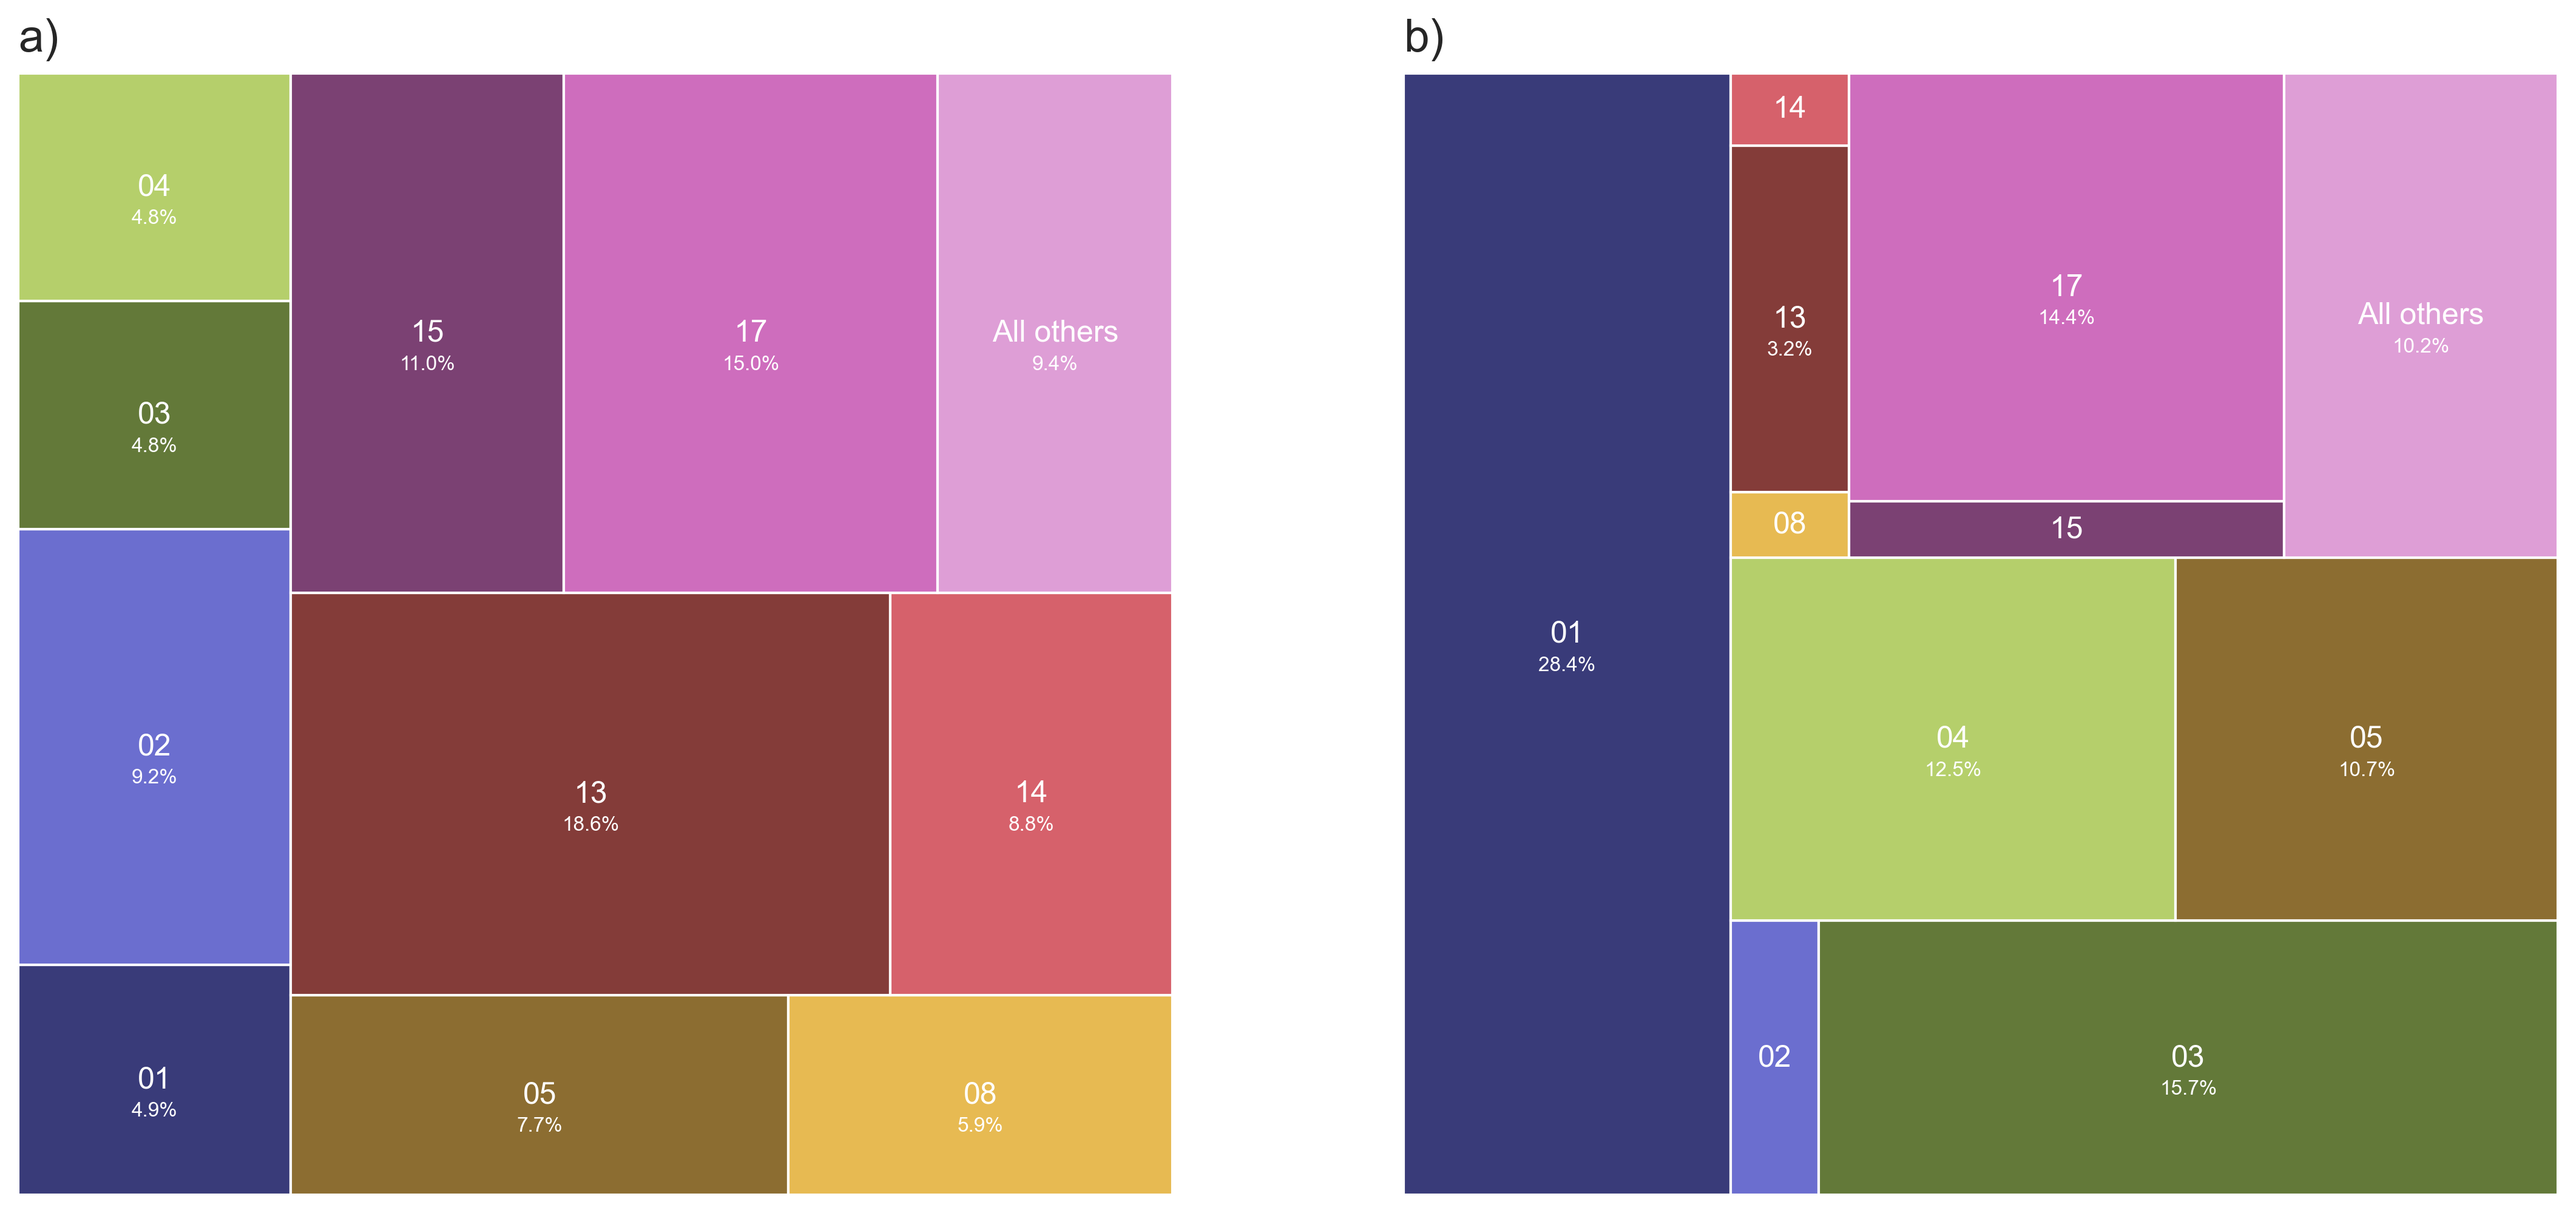
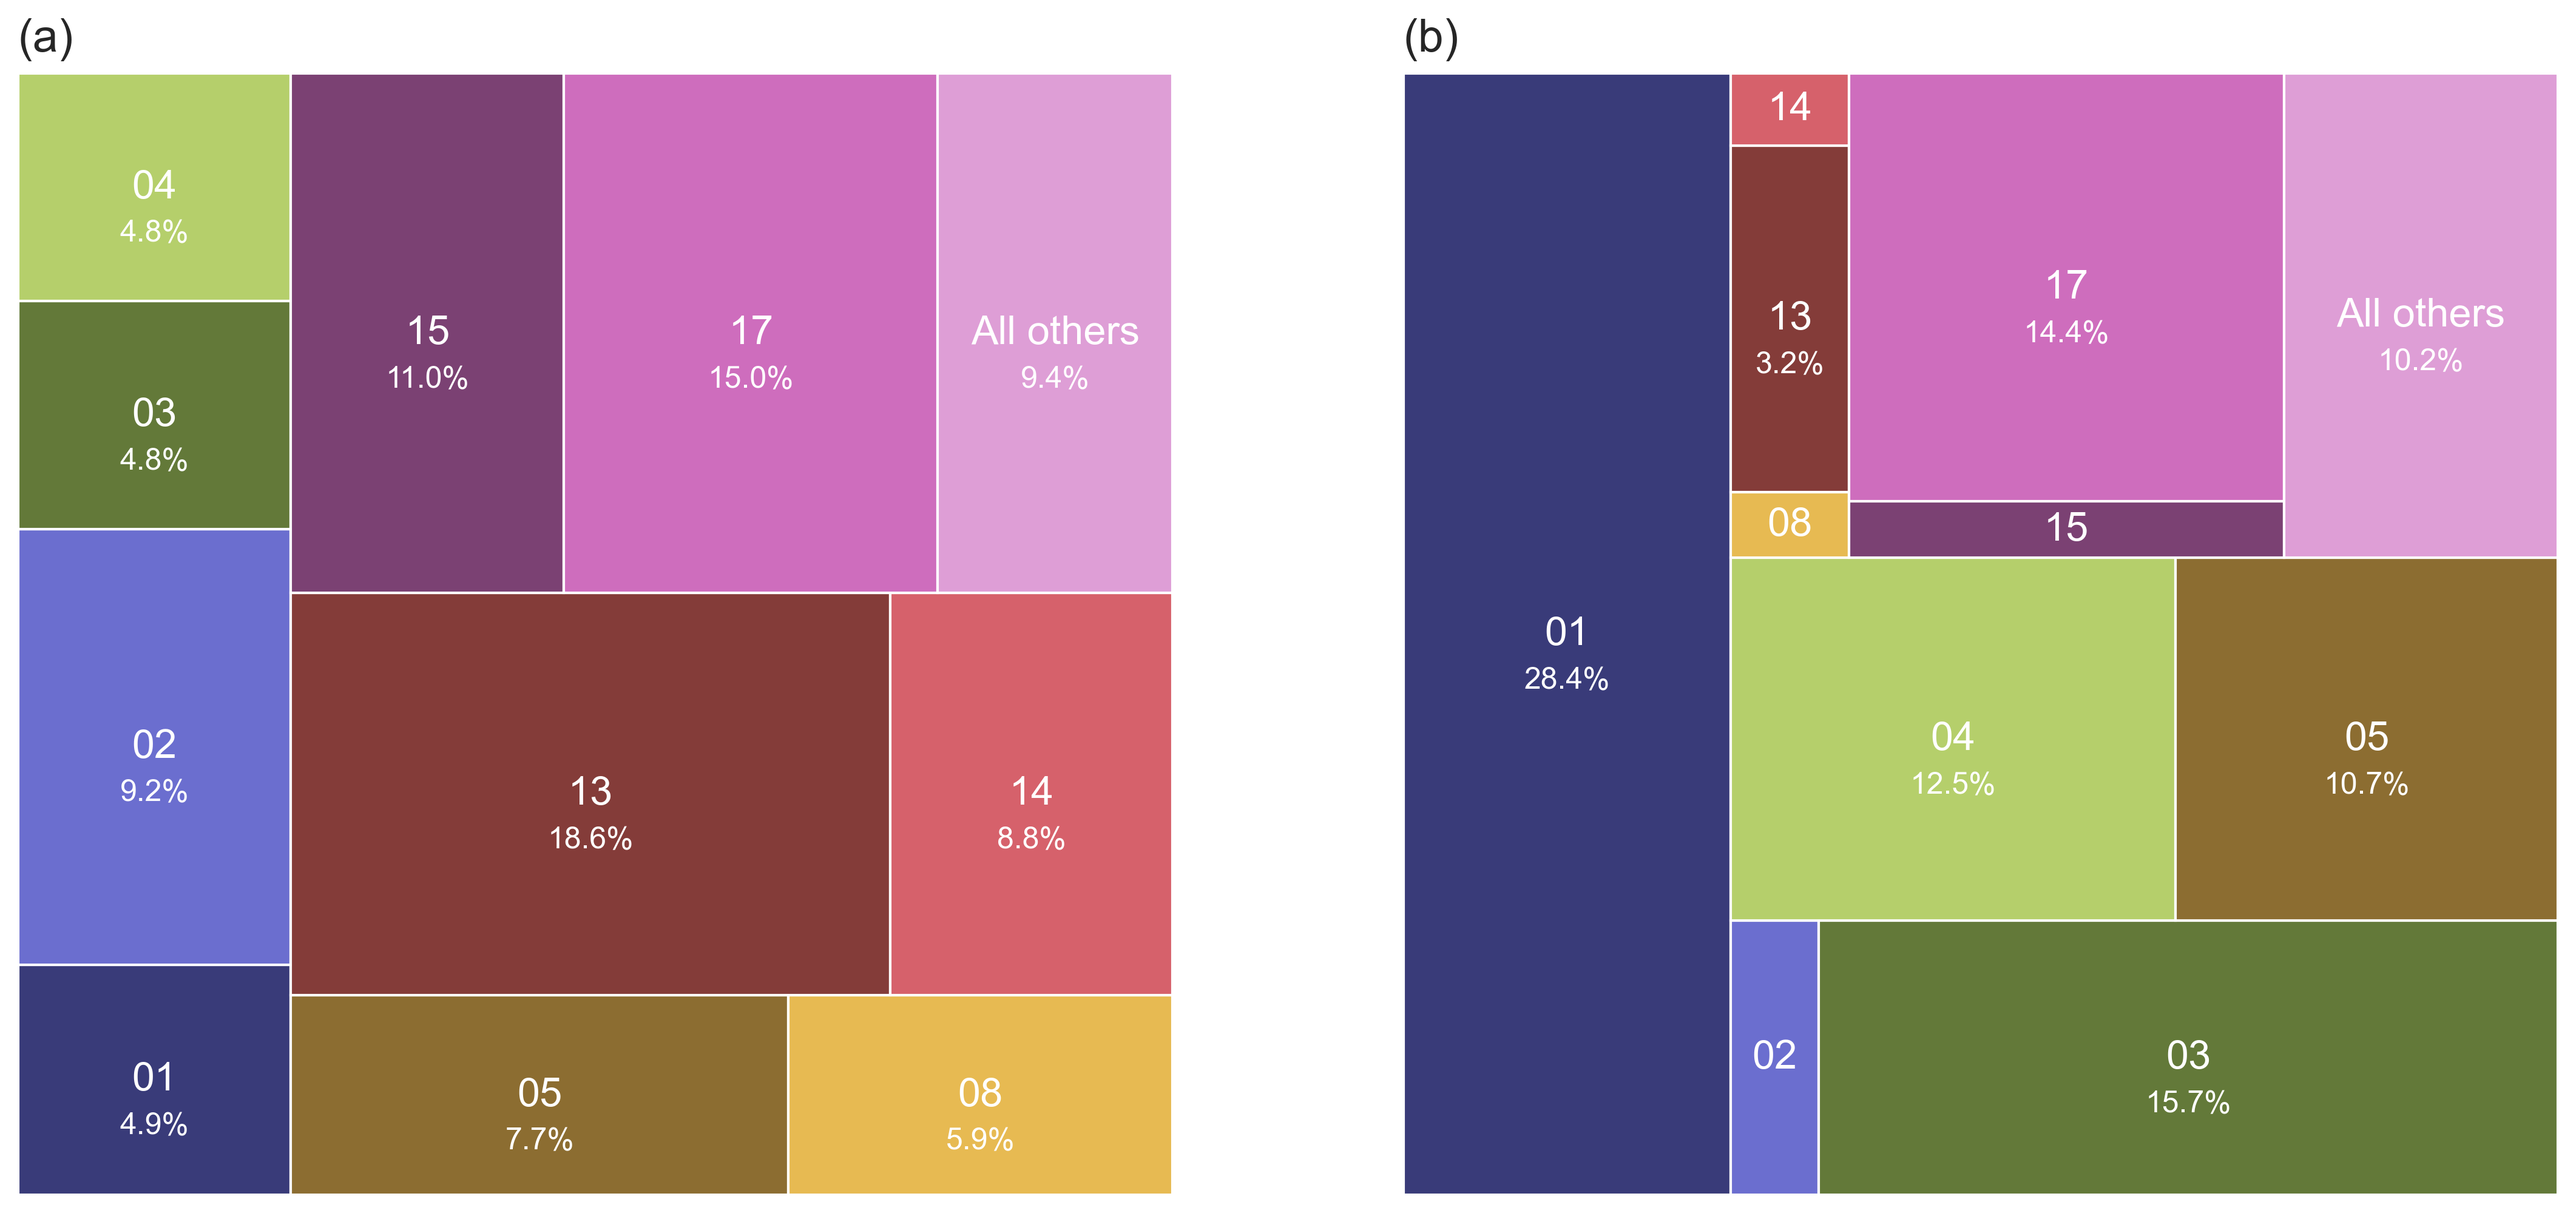
update treemap figure
- increase font sizes
- place panel labels in brackets (essd style)

diff --git a/essd/scripts/Fig7_Treemap.py b/essd/scripts/Fig7_Treemap.py
@@ -53,7 +53,7 @@ fig, axs = plt.subplots(1, 2, figsize=(18, 8))
 
 for ax, name in zip(axs, ['num', 'area']):
     squarify.plot(ax=ax, sizes=fig_data[f"lake_{name}"], label=fig_data.index,
-                  color=colors, text_kwargs=dict(size=12, color='w'))
+                  color=colors, text_kwargs=dict(size=16, color='w'))
     ax.axis('off')
 
     pcts = fig_data[f"lake_{name}"] / fig_data[f"lake_{name}"].sum()
@@ -67,10 +67,10 @@ for ax, name in zip(axs, ['num', 'area']):
     for ii, ann in enumerate(annotations):
         if pct_labels.iloc[ii] != '':
             x, y = ann.get_position()
-            ax.text(x, y, '\n' + pct_labels.iloc[ii], color='w', size=8, va='top', ha='center')
+            ax.text(x, y, '\n' + pct_labels.iloc[ii], color='w', size=12, va='top', ha='center')
 
 # annotate the panels
-axs[0].annotate('a)', (0, 1.02), xycoords='axes fraction')
-axs[1].annotate('b)', (0, 1.02), xycoords='axes fraction')
+axs[0].annotate('(a)', (0, 1.02), xycoords='axes fraction')
+axs[1].annotate('(b)', (0, 1.02), xycoords='axes fraction')
 
 fig.savefig(Path('figures', 'Fig7_Treemap.png'), dpi=300, bbox_inches='tight')
